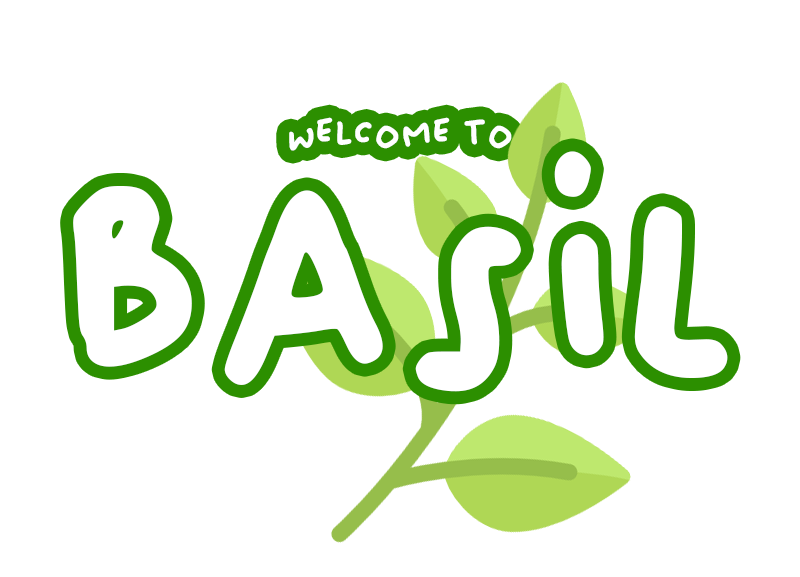
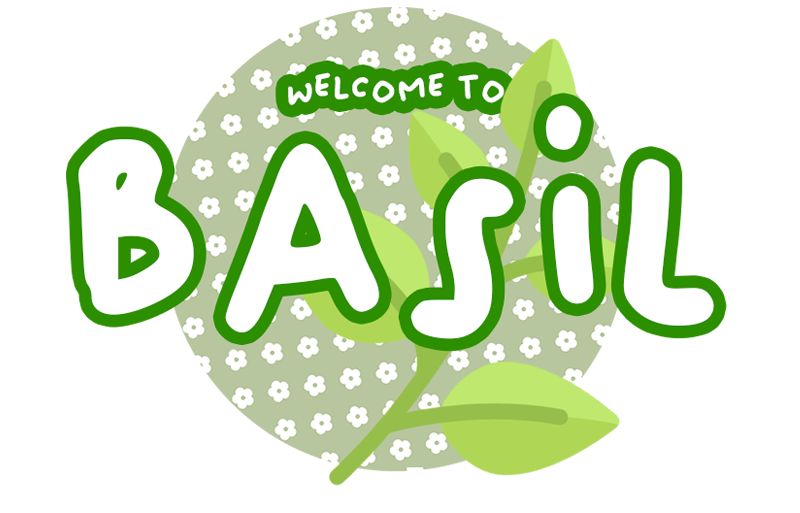
Updated the visual components

diff --git a/src/main/ui/Graphics.java b/src/main/ui/Graphics.java
@@ -59,13 +59,15 @@ public class Graphics extends JFrame implements ActionListener {
 
     private JLabel message;
     private JLabel loadMessage;
+    private JLabel searchLabel;
 
     private TableRowSorter<TableModel> sorter;
     private JTextField filter;
 
     // MODIFIES: this, database
-    // EFFECTS: initializes main fields, builds the JFrame and all the tabbed panels on start-up and
-    //          throws FileNotFoundException if a file is not found
+    // EFFECTS: initializes main fields, builds the JFrame and all the tabbed panels
+    // on start-up and
+    // throws FileNotFoundException if a file is not found
     public Graphics() throws FileNotFoundException {
         init();
         buildFrame();
@@ -77,8 +79,9 @@ public class Graphics extends JFrame implements ActionListener {
     }
 
     // MODIFIES: this, database
-    // EFFECTS: initializes the database, JSONReader and JSONWriter, and pre-loads the default recipes into
-    //          the database.
+    // EFFECTS: initializes the database, JSONReader and JSONWriter, and pre-loads
+    // the default recipes into
+    // the database.
     public void init() {
         database = new Database();
         jsonWriter = new JsonWriter(JSON_STORE);
@@ -91,7 +94,7 @@ public class Graphics extends JFrame implements ActionListener {
     // MODIFIES: this
     // EFFECTS: sets all the settings of the JFrame.
     private void buildFrame() {
-        this.setTitle("Basil");
+        this.setTitle("Basil: The Recipe App");
         this.setSize(800, 600);
         this.setLocationRelativeTo(null);
         this.setResizable(false);
@@ -102,7 +105,8 @@ public class Graphics extends JFrame implements ActionListener {
 
     // MODIFIES: this
     // EFFECTS: sets up the tabbed panel layout with four panels
-    // ADAPTED FROM: https://www.youtube.com/watch?v=RY3Hu4VYYVs&t=292s (YT: Career & Tech HQ)
+    // ADAPTED FROM: https://www.youtube.com/watch?v=RY3Hu4VYYVs&t=292s (YT: Career
+    // & Tech HQ)
     private void makeTabs() {
         panel1 = new JPanel();
         panel2 = new JPanel();
@@ -126,8 +130,10 @@ public class Graphics extends JFrame implements ActionListener {
 
     // MODIFIES: this
     // EFFECTS: paints the main panel with load and save buttons and a menu picture
-    // REFERENCE: Button implementation adapted from https://www.youtube.com/watch?v=-IMys4PCkIA (YT: Bro Code) 
-    // Image implementation adapted from https://coderanch.com/t/499598/java/add-image-jPanel
+    // REFERENCE: Button implementation adapted from
+    // https://www.youtube.com/watch?v=-IMys4PCkIA (YT: Bro Code)
+    // Image basil PNG from flaticon (User: Freekpik), image implementation adapted from
+    // https://coderanch.com/t/499598/java/add-image-jPanel
     public void loadMainPanel() {
         JButton load = new JButton("LOAD FILE");
         load.setBounds(300, 10, 200, 40);
@@ -150,12 +156,15 @@ public class Graphics extends JFrame implements ActionListener {
         menuImage.setIcon(new ImageIcon("./data/basil menu.png"));
         menuImage.setMaximumSize(new Dimension(10, 10));
         panel1.add(menuImage);
+        panel1.revalidate();
+        panel1.repaint();
     }
 
     // MODIFIES: this
     // EFFECTS: Adds the components of panel two, with a JTable filter system
-    // ADAPTED FROM: https://stackoverflow.com/questions/22066387/how-to-search-an-element-in-a-jtable-java 
-    //               (Author: Paul Samsotha)
+    // ADAPTED FROM:
+    // https://stackoverflow.com/questions/22066387/how-to-search-an-element-in-a-jtable-java
+    // (Author: Paul Samsotha)
     public void loadPanel2() {
         String[] columns = { "Title", "Author", "Cooktime", "Ingredients" };
         ArrayList<Recipe> data = database.getRecipeDatabase();
@@ -169,9 +178,9 @@ public class Graphics extends JFrame implements ActionListener {
         panel.setBackground(Color.WHITE);
         searchTable.setOpaque(false);
 
+        searchDatabaseLabel();
         searchTable.setRowSorter(sorter);
-        panel.add(new JLabel("Search database for:"),
-                BorderLayout.NORTH);
+        panel.add(searchLabel, BorderLayout.NORTH);
         panel.add(filter, BorderLayout.CENTER);
 
         setLayout(new BorderLayout());
@@ -182,9 +191,12 @@ public class Graphics extends JFrame implements ActionListener {
         filter.getDocument().addDocumentListener(new RecipeDocumentListener(filter, sorter));
     }
 
-    // EFFECTS: Converts the array list of recipes into a two dimensional object array for the table
-    // ADAPTED FROM: https://stackoverflow.com/questions/5501809/how-to-access-second-part-of-2d-array,
-    // https://sentry.io/answers/how-can-i-create-a-two-dimensional-array-in-javascript/, and
+    // EFFECTS: Converts the array list of recipes into a two dimensional object
+    // array for the table
+    // ADAPTED FROM:
+    // https://stackoverflow.com/questions/5501809/how-to-access-second-part-of-2d-array,
+    // https://sentry.io/answers/how-can-i-create-a-two-dimensional-array-in-javascript/,
+    // and
     // https://runestone.academy/ns/books/published/apcsareview/Array2dBasics/a2dDAS.html
     public static Object[][] recipe2dArray(ArrayList<Recipe> recipes) {
         int rowNumber = recipes.size();
@@ -201,10 +213,19 @@ public class Graphics extends JFrame implements ActionListener {
         return arrOfRecipes;
     }
 
+    // EFFECTS: creates a new label with a custom search database image
+    public void searchDatabaseLabel() {
+        searchLabel = new JLabel();
+        searchLabel.setIcon(new ImageIcon("./data/search database button.png"));
+    }
+
     // MODIFIES: this
-    // EFFECTS: paints the panel three with a form to add personal recipe to database
-    // REFERENCE: Button and TextField implementation adapted from https://www.youtube.com/watch?v=Kmgo00avvEw (YT: Bro Code) 
-    // Image implementation adapted from https://coderanch.com/t/499598/java/add-image-jPanel
+    // EFFECTS: paints the panel three with a form to add personal recipe to
+    // database
+    // REFERENCE: Button and TextField implementation adapted from
+    // https://www.youtube.com/watch?v=Kmgo00avvEw (YT: Bro Code)
+    // Image implementation adapted from
+    // https://coderanch.com/t/499598/java/add-image-jPanel
     public void loadPanel3() {
         getTlabel();
         getAuthorLabel();
@@ -240,7 +261,8 @@ public class Graphics extends JFrame implements ActionListener {
     }
 
     // MODIFIES: this
-    // EFFECTS: creates the Ingredients text-field for user's recipe ingredient input
+    // EFFECTS: creates the Ingredients text-field for user's recipe ingredient
+    // input
     private void getIngrLabel() {
         JLabel ingrLabel = new JLabel("Ingredients:");
         panel3.add(ingrLabel);
@@ -291,10 +313,11 @@ public class Graphics extends JFrame implements ActionListener {
         button.setFont(new Font("Dialog Input", Font.BOLD, 10));
     }
 
-    
-    // ADAPTED FROM: https://www.youtube.com/watch?v=KOI1WbkKUpQ&t=433s (Author: Lazic B)
+    // ADAPTED FROM: https://www.youtube.com/watch?v=KOI1WbkKUpQ&t=433s (Author:
+    // Lazic B)
     // MODIFIES: this
-    // EFFECTS: sets up the components in panel four, creating a list view of all the recipes
+    // EFFECTS: sets up the components in panel four, creating a list view of all
+    // the recipes
     public void loadPanel4() {
         JPanel panel = new JPanel();
         JList<Recipe> personalRecipes = new JList<>();
@@ -335,7 +358,8 @@ public class Graphics extends JFrame implements ActionListener {
 
     // ADAPTED FROM: UBC CPSC210's provided LabelChanger code.
     // MODIFIES: this, database
-    // EFFECTS: interprets user actions from ActionListener and responds with respective event
+    // EFFECTS: interprets user actions from ActionListener and responds with
+    // respective event
     @Override
     public void actionPerformed(ActionEvent e) {
         if (e.getActionCommand().equals("addRecipe")) {
@@ -374,7 +398,8 @@ public class Graphics extends JFrame implements ActionListener {
         loadPanel2();
     }
 
-    // EFFECTS: returns true if the inputted recipe has a customized title and author, and a cook-time > 0 mins.
+    // EFFECTS: returns true if the inputted recipe has a customized title and
+    // author, and a cook-time > 0 mins.
     public boolean checkNewRecipe(Recipe recipe) {
         String author = recipe.getAuthor();
         String title = recipe.getTitle();

diff --git a/src/main/model/Recipe.java b/src/main/model/Recipe.java
@@ -165,6 +165,7 @@ public class Recipe implements Writable {
         return json;
     }
 
+    // EFFECTS: returns the title as the string (for GUI)
     public String toString() {
         return title;
     }
@@ -249,12 +250,14 @@ public class Recipe implements Writable {
         return true;
     }
 
+    // EFFECTS: prints all the information of the recipe properly HTML formatted
     public String printRecipe() {
         return "<html><pre>Title: " + getTitle() + "\nAuthor: " + getAuthor() + "\nCooktime: " + getCookTime()
             + "\n\nIngredients:" + printList(ingredients) + "\n\nDirections:" 
             + printList(directions) + "\n<html><pre>";
     }
 
+    // EFFECTS: prints each item in a list array in individual lines
     public String printList(ArrayList<String> list) {
         String stringSoFar = "";
         for (String item: list) {

diff --git a/src/main/ui/Main.java b/src/main/ui/Main.java
@@ -2,6 +2,7 @@ package ui;
 
 import java.io.FileNotFoundException;
 
+// The main class, for running the user interface.
 public class Main {
     public static void main(String[] args) {
 

diff --git a/README.md b/README.md
@@ -35,19 +35,18 @@ For my personal project, I wish to make a recipe-geared application. In the appl
 - You can generate the first required action related to the user story "adding multiple Xs to a Y" by going to the "Create Personal Recipe" tab, inputting information, and pressing "Add to Database".
 - You can generate the second required action related to the user story "adding multiple Xs to a Y" by going to "Search Database" and entering a word in the text-field to filter added recipes.
 - EXTRA ACTION: Remove all user recipes by clicking "Remove all user recipes" in the "View All Recipes" tab.
-- You can locate my visual component by clicking on the empty space under "Load File" and "Save File" buttons in the main tab to load the display picture.
+- You can locate my visual component by observing the space under "Load File" and "Save File" buttons in the main tab to view the display picture.
 - You can save the state of my application by clicking "Save file" in main tab.
 - You can reload the state of my application by clicking "Load file" in main tab.
 
 ## STEP-BY-STEP INSTRUCTIONS
 1. Launch the application
-2. Click on the empty space below the "Load File" and "Save File" buttons to display the menu image.
-3. Click "Create Personal Recipe", a background image is added here.
-4. Input a custom title and author, and a cook-time greater than 0.
-5. Press "Add to Database" and ensure the text shows "Success!". You have added a recipe to the database.
-6. Go to the "View All Recipes" tab and click on your added recipes.
-7. Go to "Search Database" tab. Filter out ingredients that have butter by entering "butter" into the Text Field.
-8. Go to main and save your file.
-9. Close the app.
-10. Run the application and load the file in the main screen. All panels should have your custom recipe.
-11. Go to "View All Recipes" and click "Remove all user recipes" to remove your submissions.
+2. Click "Create Personal Recipe", a background image is added here.
+3. Input a custom title and author, and a cook-time greater than 0.
+4. Press "Add to Database" and ensure the text shows "Success!". You have added a recipe to the database.
+5. Go to the "View All Recipes" tab and click on your added recipes.
+6. Go to "Search Database" tab. Filter out ingredients that have butter by entering "butter" into the Text Field.
+7. Go to main and save your file.
+8. Close the app.
+9. Run the application and load the file in the main screen. All panels should have your custom recipe.
+10. Go to "View All Recipes" and click "Remove all user recipes" to remove your submissions.
